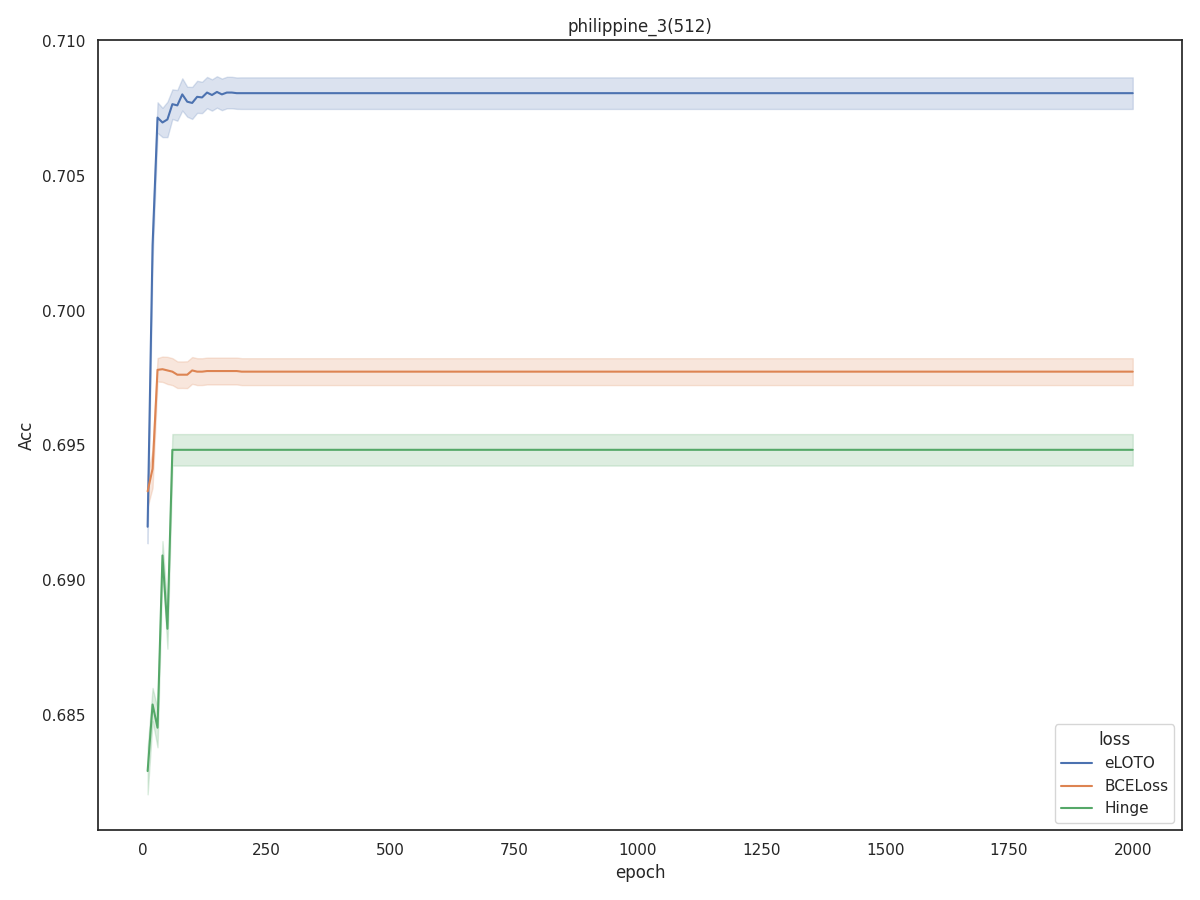
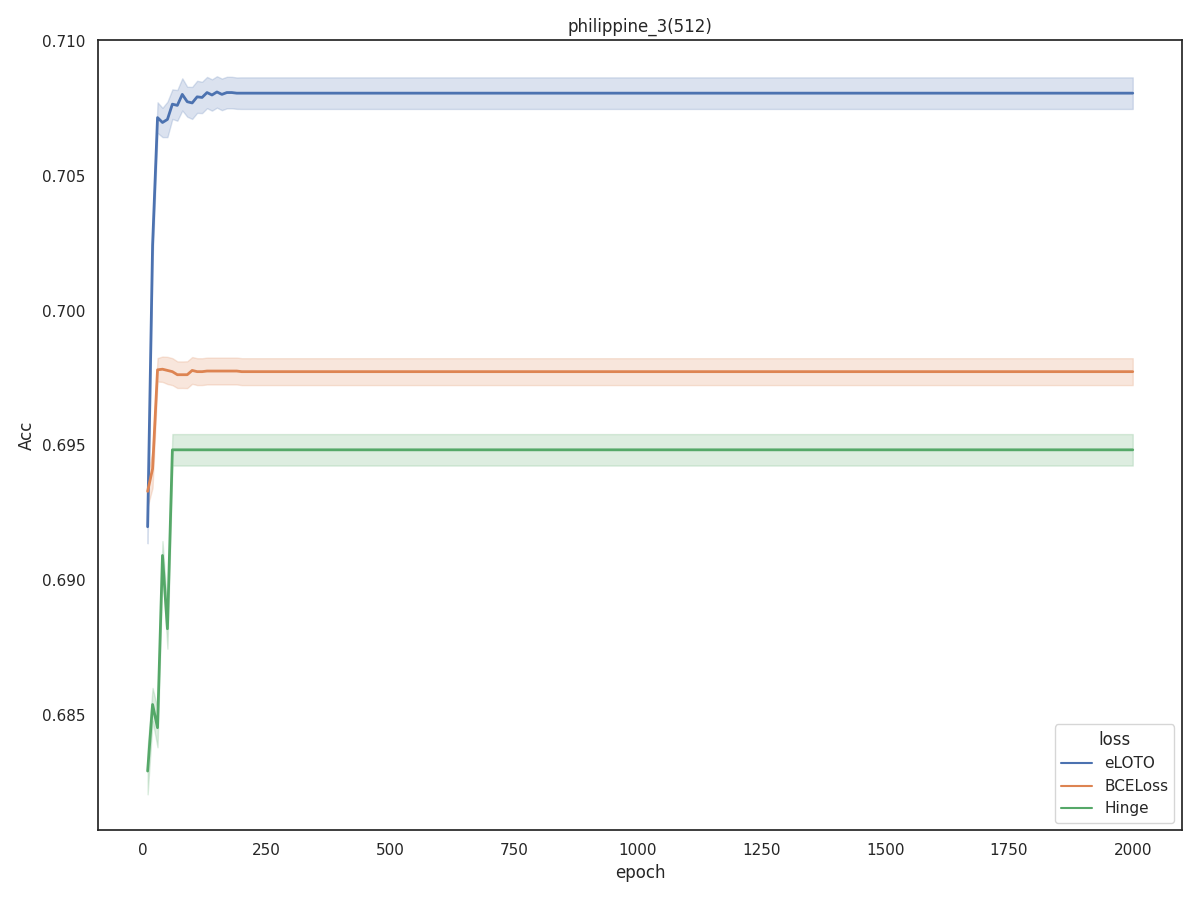
update png

diff --git a/results/sns_plot.py b/results/sns_plot.py
@@ -5,7 +5,7 @@ import matplotlib.pyplot as plt
 import argparse
 import scipy.stats
 
-def path_plot(filename, D, H, train_verbose=True):
+def path_plot(filename, D, H, train_verbose=False):
     sns.set(rc={'figure.figsize':(12, 9)})
     sns.set_theme(style='white')
 
@@ -29,7 +29,8 @@ def path_plot(filename, D, H, train_verbose=True):
         order = [3,4,5]
         plt.legend([handles[idx] for idx in order],[labels[idx] for idx in order], loc='upper right', title='method') 
     else:
-        g = sns.lineplot(data=df, x="epoch", y="test_acc", hue="loss", errorbar=('se', 1./np.sqrt(15)))
+        g = sns.lineplot(data=df, x="epoch", y="test_acc", hue="loss",
+                        linewidth=2, errorbar=('se', 1./np.sqrt(15)))
 
     plt.ylabel('Acc')
     plt.title('{}_{}({})'.format(filename,D,H))
